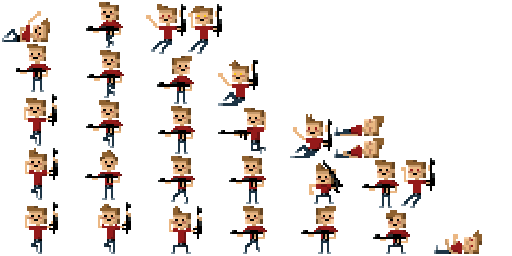
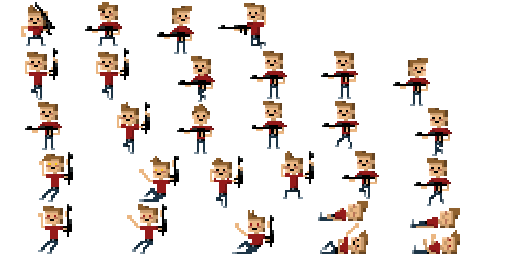
incorrectly centered/positioned fireballs, blood, and explosions

Changed region(s): [[0.0, 0.0, 0.9375, 1.0]]

diff --git a/core/src/com/ashenrider/game/Fireball.java b/core/src/com/ashenrider/game/Fireball.java
@@ -1,0 +1,78 @@
+package com.ashenrider.game;
+
+import com.badlogic.gdx.Gdx;
+import com.badlogic.gdx.graphics.Texture;
+import com.badlogic.gdx.graphics.g2d.Animation;
+import com.badlogic.gdx.graphics.g2d.SpriteBatch;
+import com.badlogic.gdx.graphics.g2d.TextureAtlas;
+import com.badlogic.gdx.graphics.g2d.TextureRegion;
+import com.badlogic.gdx.math.Vector2;
+
+public class Fireball extends Projectile {	
+	// frames per particle spawn
+    float scale = 2.0f;
+	private int particleTimer = 0;
+    
+    float animationTime = 0.0f;
+
+    private float FRAME_DURATION = 0.05f;
+    private Animation anim;
+    float angle;
+    
+	public Fireball(Vector2 initPosition, Vector2 direction, int playerNumber) {
+		super(initPosition, direction, playerNumber);
+        angle = direction.angle();
+        boolean flipped = true;
+
+        TextureAtlas atlas = new TextureAtlas(Gdx.files.internal("pack/fx.atlas"));
+        TextureRegion[] frames = new TextureRegion[15];
+        for (int i=0; i<15; i++) {
+            frames[i] = atlas.findRegion("fire/fire-" + (i+1));
+            if (flipped) {
+            	frames[i].flip(true,  false);
+            }
+        }
+        anim = new Animation(FRAME_DURATION, frames);
+        
+		size = new Vector2(12, 12);
+		
+		// you cannot hurt yourself within the first fraction of a second that a shot is fired
+		SPEED = 700.0f;
+		speed = direction.nor().scl(SPEED);
+		//GRAVITY = -300.0f;
+		falls = false;
+		
+		BOUNCE_WALLS = false;
+		BOUNCE_CEILING = false;
+		groundBounces = 0;
+		ELASTICITY = 0.7f;
+	}
+
+	@Override
+	public void destroy() {
+		super.destroy();
+        scene.addEntity(new Explosion(getCentre()), Scene.PARTICLE_LAYER);
+	}
+	
+	@Override
+	public void update(float dt) {
+		super.update(dt);
+        animationTime += dt;
+		//Particle p = new GunParticle(getCentre(), speed.cpy().scl(-1), 1.0f, 0.4f);
+		//scene.addEntity(p, Scene.PARTICLE_LAYER);
+	}
+
+    public TextureRegion getSprite() {
+        return anim.getKeyFrame(animationTime, true);
+    }
+	
+    @Override
+    public void render(SpriteBatch batch) {
+        TextureRegion frame = getSprite();
+        float w = frame.getRegionWidth();
+        float h = frame.getRegionHeight();
+        //batch.draw(frame, pos.x-w/2f, pos.y-h/2f, w, h);
+        batch.draw(frame, pos.x - (w*scale/2), pos.y - (h*scale/2), w/2, h/2, w, h, scale, scale, angle);
+        //batch.draw(region, x, y, originX, originY, width, height, scaleX, scaleY, rotation);
+    }
+}

diff --git a/core/src/com/ashenrider/game/Blood.java b/core/src/com/ashenrider/game/Blood.java
@@ -1,0 +1,65 @@
+package com.ashenrider.game;
+
+import com.badlogic.gdx.Gdx;
+import com.badlogic.gdx.graphics.g2d.Animation;
+import com.badlogic.gdx.graphics.g2d.SpriteBatch;
+import com.badlogic.gdx.graphics.g2d.TextureAtlas;
+import com.badlogic.gdx.graphics.g2d.TextureRegion;
+import com.badlogic.gdx.math.Vector2;
+
+public class Blood extends Entity {
+
+    private float lifeTime = 5.0f;
+
+    float scale = 2.0f;
+    float animationTime = 0.0f;
+
+    private float FRAME_DURATION = 0.15f;
+    private Animation anim;
+    
+    float angle;
+
+    public Blood(Vector2 initPosition, Vector2 direction) {
+        super(initPosition);
+        angle = direction.angle();
+
+        TextureAtlas atlas = new TextureAtlas(Gdx.files.internal("pack/fx.atlas"));
+        TextureRegion[] frames = new TextureRegion[9];
+        for (int i=0; i<9; i++) {
+            frames[i] = atlas.findRegion("blood/blood-" + (i+1));
+            //if (direction.x < 0) {
+            //	frames[i].flip(true,  false);
+            //}
+        }
+        anim = new Animation(FRAME_DURATION, frames);
+
+        size = new Vector2(16.0f, 16.0f).scl(scale);
+        
+        lifeTime = FRAME_DURATION * 10;
+        falls = false;
+    }
+
+    public TextureRegion getSprite() {
+        return anim.getKeyFrame(animationTime, false);
+    }
+
+    @Override
+    public void update(float dt) {
+        super.update(dt);
+        animationTime += dt;
+        lifeTime -= dt;
+        if(lifeTime < 0) {
+            destroy();
+        }
+    }
+
+    @Override
+    public void render(SpriteBatch batch) {
+        TextureRegion frame = getSprite();
+        float w = frame.getRegionWidth();
+        float h = frame.getRegionHeight();
+        //batch.draw(frame, pos.x-w/2f, pos.y-h/2f, w, h);
+        batch.draw(frame, pos.x, pos.y, w/2, h/2, w, h, scale, scale, angle);
+        //batch.draw(region, x, y, originX, originY, width, height, scaleX, scaleY, rotation);
+    }
+}

diff --git a/core/src/com/ashenrider/game/Explosion.java b/core/src/com/ashenrider/game/Explosion.java
@@ -1,0 +1,64 @@
+package com.ashenrider.game;
+
+import com.badlogic.gdx.Gdx;
+import com.badlogic.gdx.graphics.g2d.Animation;
+import com.badlogic.gdx.graphics.g2d.SpriteBatch;
+import com.badlogic.gdx.graphics.g2d.TextureAtlas;
+import com.badlogic.gdx.graphics.g2d.TextureRegion;
+import com.badlogic.gdx.math.Vector2;
+
+public class Explosion extends Entity {
+
+    private float lifeTime = 5.0f;
+
+    float scale = 2.0f;
+    float animationTime = 0.0f;
+
+    private float FRAME_DURATION = 0.03f;
+    private Animation anim;
+    
+    float angle;
+
+    public Explosion(Vector2 initPosition) {
+        super(initPosition);
+        angle = 0.0f;//direction.angle();
+        boolean flipped = false;
+        
+        TextureAtlas atlas = new TextureAtlas(Gdx.files.internal("pack/fx.atlas"));
+        TextureRegion[] frames = new TextureRegion[43];
+        for (int i=0; i<43; i++) {
+            frames[i] = atlas.findRegion("explosion/explosion-" + (i+1));
+            if (flipped) {
+            	frames[i].flip(true,  false);
+            }
+        }
+        anim = new Animation(FRAME_DURATION, frames);
+
+        size = new Vector2(16.0f, 16.0f).scl(scale);
+        
+        lifeTime = FRAME_DURATION * 44;
+        falls = false;
+    }
+
+    public TextureRegion getSprite() {
+        return anim.getKeyFrame(animationTime, false);
+    }
+
+    @Override
+    public void update(float dt) {
+        super.update(dt);
+        animationTime += dt;
+        lifeTime -= dt;
+        if(lifeTime < 0) {
+            destroy();
+        }
+    }
+
+    @Override
+    public void render(SpriteBatch batch) {
+        TextureRegion frame = getSprite();
+        float w = frame.getRegionWidth();
+        float h = frame.getRegionHeight();
+        batch.draw(frame, pos.x, pos.y, w/2, h/2, w, h, scale, scale, angle);
+    }
+}

diff --git a/core/src/com/ashenrider/game/Player.java b/core/src/com/ashenrider/game/Player.java
@@ -176,8 +176,8 @@ public class Player extends Entity {
 		TextureRegion frame;
 		// pass a time to animation to get the right frame
 		if (landed) {
-			frame = facingRight ? landRightAnimation.getKeyFrame(animationTime, true)
-								: landLeftAnimation.getKeyFrame(animationTime, true);
+			frame = facingRight ? landRightAnimation.getKeyFrame(animationTime, false)
+								: landLeftAnimation.getKeyFrame(animationTime, false);
 		} else if (onWall) {
 			frame = facingRight ? wallHugRight : wallHugLeft;
 		} else if (!onGround) {
@@ -234,7 +234,7 @@ public class Player extends Entity {
 		// shoot
 		if (buttonMap.get(Action.SHOOT).isDown() && cooldown.get(Action.SHOOT) == 0.0f) {
 			Vector2 dir = new Vector2(axisMap.get(Action.AIM_HORIZONTAL).getValue(), axisMap.get(Action.AIM_VERTICAL).getValue());
-			Projectile p = new Rock(getCentre(), dir, number);
+			Projectile p = new Fireball(getCentre(), dir, number);
 			cooldown.put(Action.SHOOT, maxCooldown.get(Action.SHOOT));
 			scene.addEntity(p, Scene.SHOT_LAYER);
 		}
@@ -518,7 +518,8 @@ public class Player extends Entity {
             int playerId = projectile.getShotBy();
             scene.reportPlayerDeath(scene.players.get(playerId), this);
             lives--;
-            scene.addEntity(new PlayerBody(number, pos, speed.cpy(), 5.0f), Scene.PLAYER_LAYER);
+            scene.addEntity(new PlayerBody(number, pos, speed.cpy(), 5.0f, facingRight), Scene.PLAYER_LAYER);
+            scene.addEntity(new Blood(getCentre(), projectile.speed.cpy()), Scene.PARTICLE_LAYER);
             scene.respawnPlayer(this, true);
             onInvulnerable(INVULNERABILITY_LENGTH);
             return true;

diff --git a/core/src/com/ashenrider/game/PlayerBody.java b/core/src/com/ashenrider/game/PlayerBody.java
@@ -16,11 +16,11 @@ public class PlayerBody extends Entity {
 
     public int number;
 
-    int animationOffset = -27;
+    int animationOffset = -37;
     private float DEATH_FRAME_DURATION = 0.12f;
     private Animation deathAnimation;
 
-    public PlayerBody(int playerNumber, Vector2 initPosition, Vector2 initVelocity, float lifeTime) {
+    public PlayerBody(int playerNumber, Vector2 initPosition, Vector2 initVelocity, float lifeTime, boolean facingRight) {
         super(initPosition);
         speed.x = initVelocity.x;
         speed.y = initVelocity.y;
@@ -30,6 +30,9 @@ public class PlayerBody extends Entity {
         TextureRegion[] deathFrames = new TextureRegion[10];
         for (int i=0; i<10; i++) {
             deathFrames[i] = atlas.findRegion(String.format("p%d/death-%02d", (playerNumber % 3), i+1));
+            if (facingRight) {
+            	deathFrames[i].flip(true,  false);
+            }
         }
         deathAnimation = new Animation(DEATH_FRAME_DURATION, deathFrames);
 

diff --git a/core/src/com/ashenrider/game/Plasma.java b/core/src/com/ashenrider/game/Plasma.java
@@ -3,13 +3,13 @@ package com.ashenrider.game;
 import com.badlogic.gdx.graphics.Texture;
 import com.badlogic.gdx.math.Vector2;
 
-public class Rock extends Projectile {
+public class Plasma extends Projectile {
 	static Texture GUN_PROJECTILE = null;
 	
 	// frames per particle spawn
 	private int particleTimer = 0;
 	
-	public Rock(Vector2 initPosition, Vector2 direction, int playerNumber) {
+	public Plasma(Vector2 initPosition, Vector2 direction, int playerNumber) {
 		super(initPosition, direction, playerNumber);
 		size = new Vector2(16, 16);
 		if (GUN_PROJECTILE == null) {
@@ -21,7 +21,7 @@ public class Rock extends Projectile {
 		SPEED = 1400.0f;
 		speed = direction.nor().scl(SPEED);
 		//GRAVITY = -300.0f;
-		falls = false;
+		falls = true;
 		
 		BOUNCE_WALLS = false;
 		BOUNCE_CEILING = false;

diff --git a/desktop/src/com/ashenrider/game/desktop/DesktopLauncher.java b/desktop/src/com/ashenrider/game/desktop/DesktopLauncher.java
@@ -12,6 +12,7 @@ public class DesktopLauncher {
         settings.maxHeight=512;
         TexturePacker.process(settings, "gui", "pack", "gui");
         TexturePacker.process(settings, "animations", "pack", "animations");
+        TexturePacker.process(settings, "fx", "pack", "fx");
 
 		LwjglApplicationConfiguration config = new LwjglApplicationConfiguration();
 		config.width = 1280;
